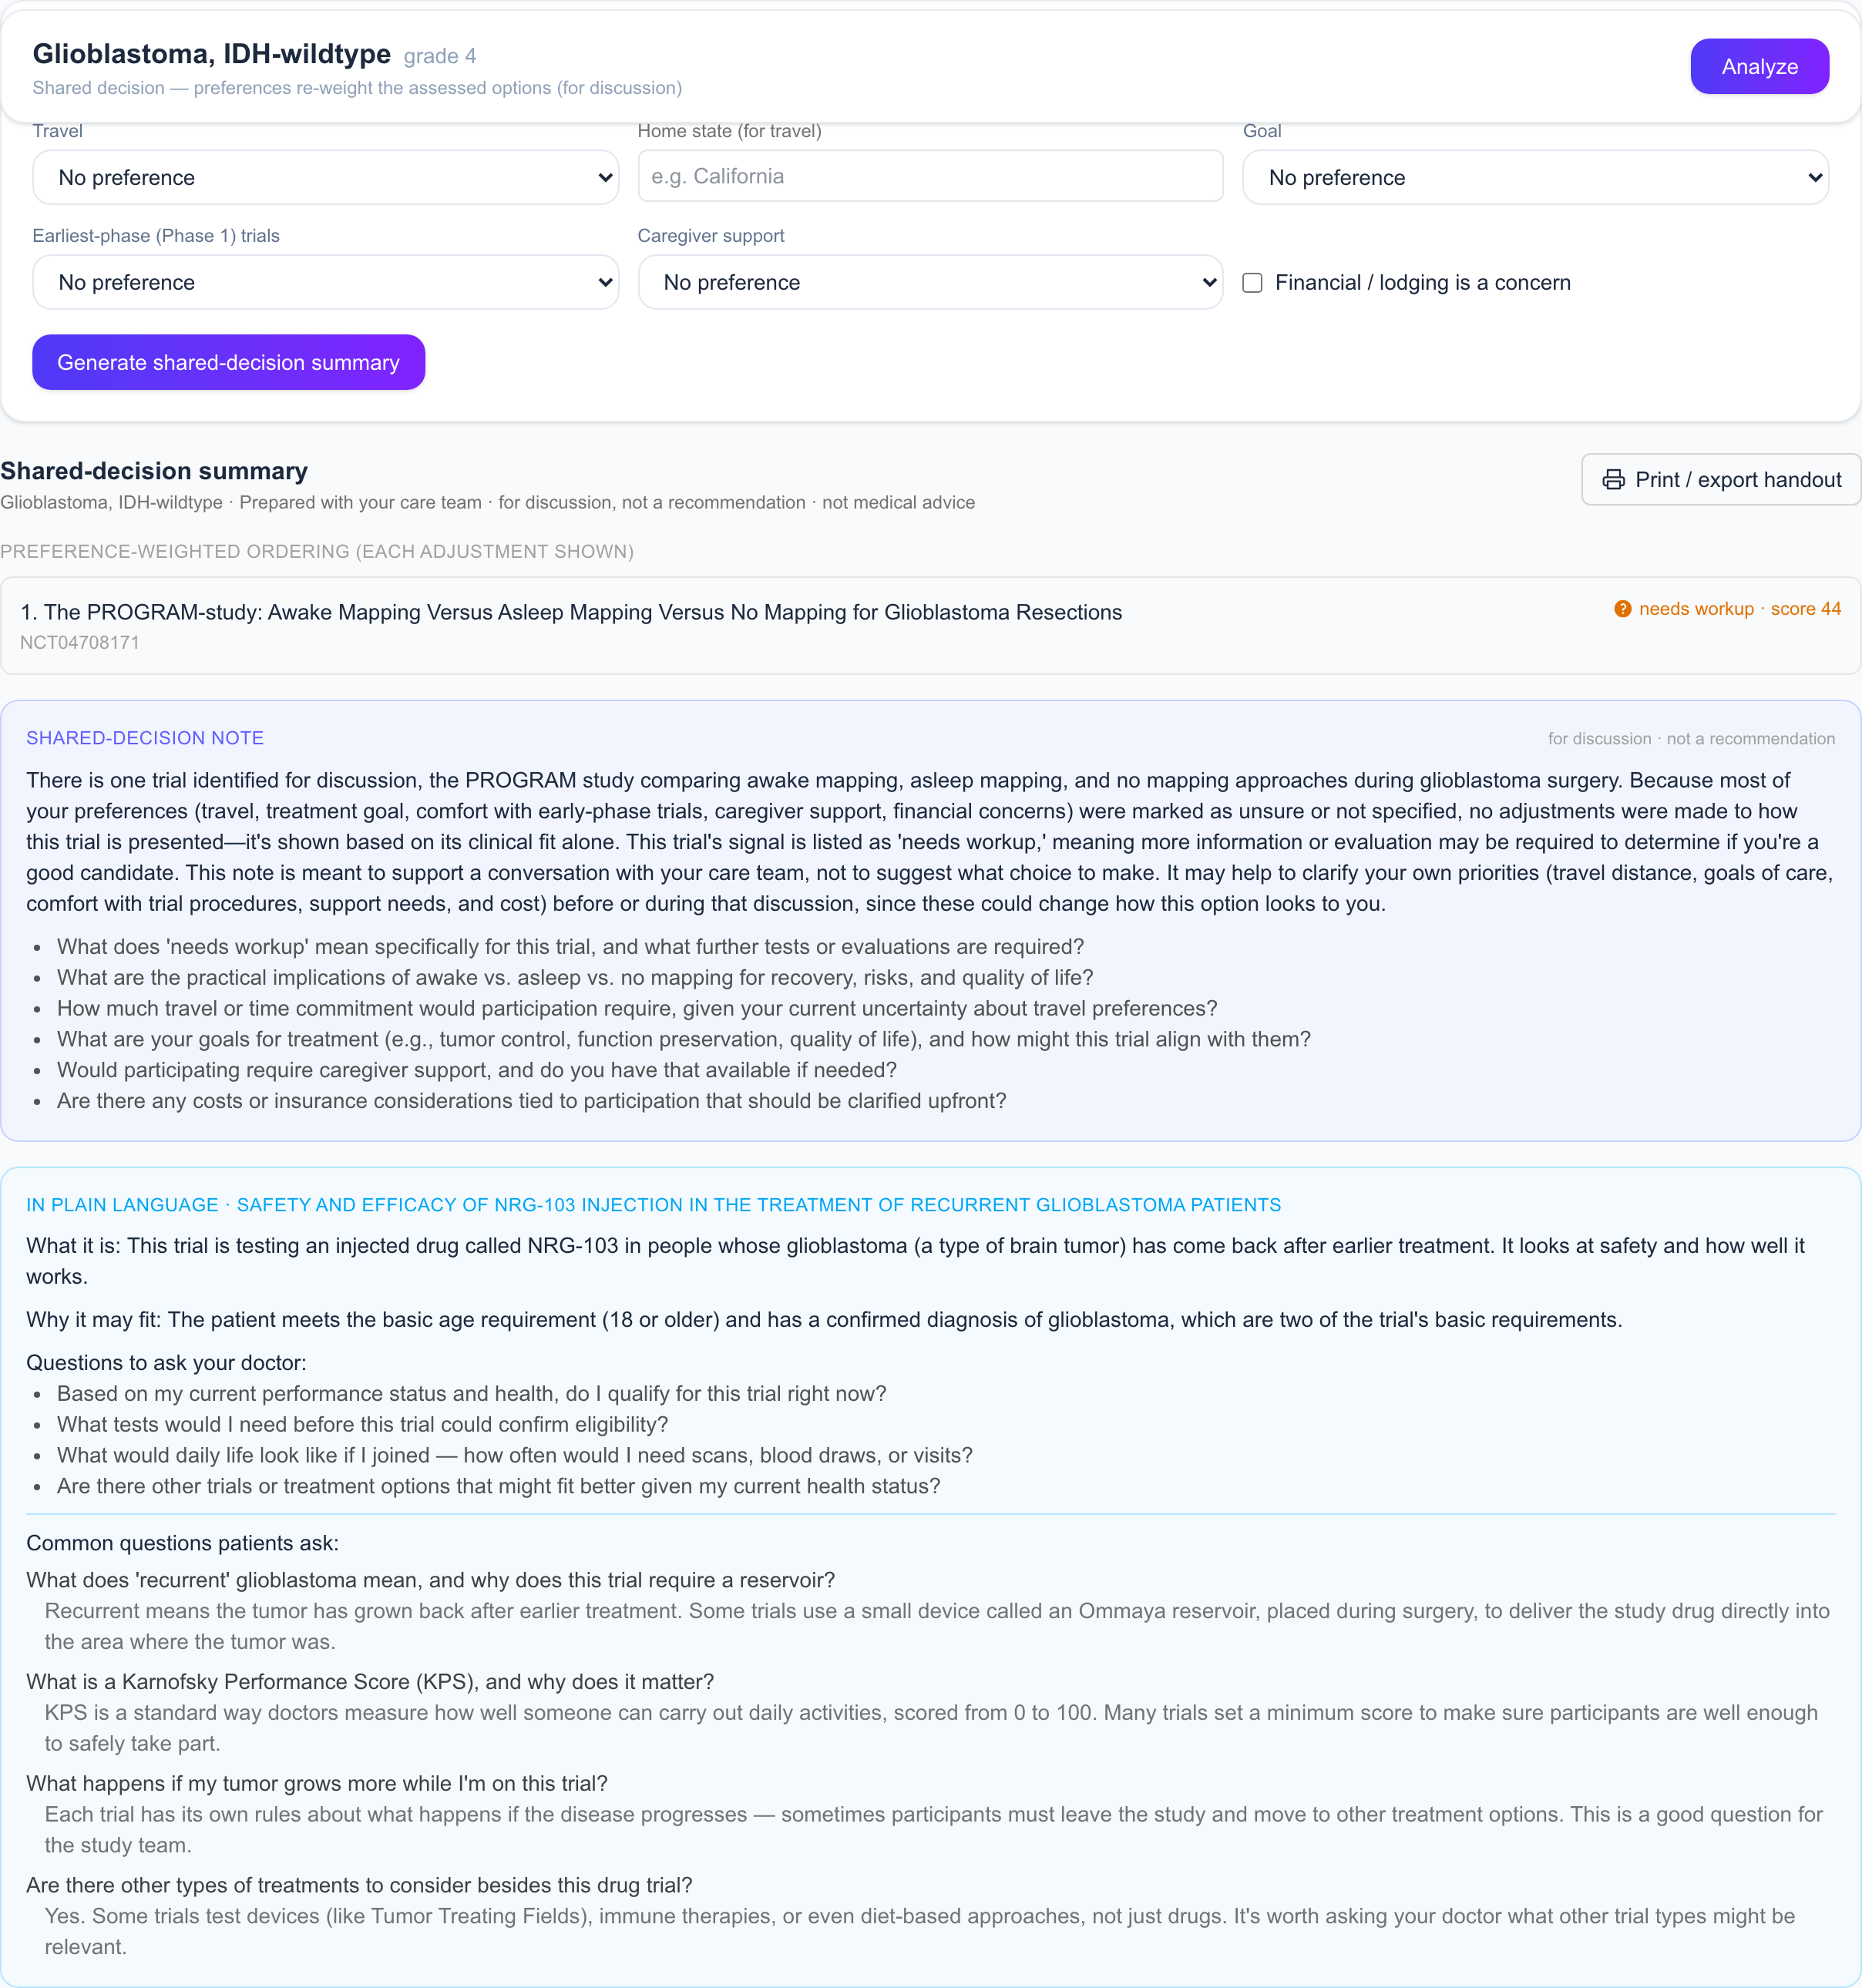
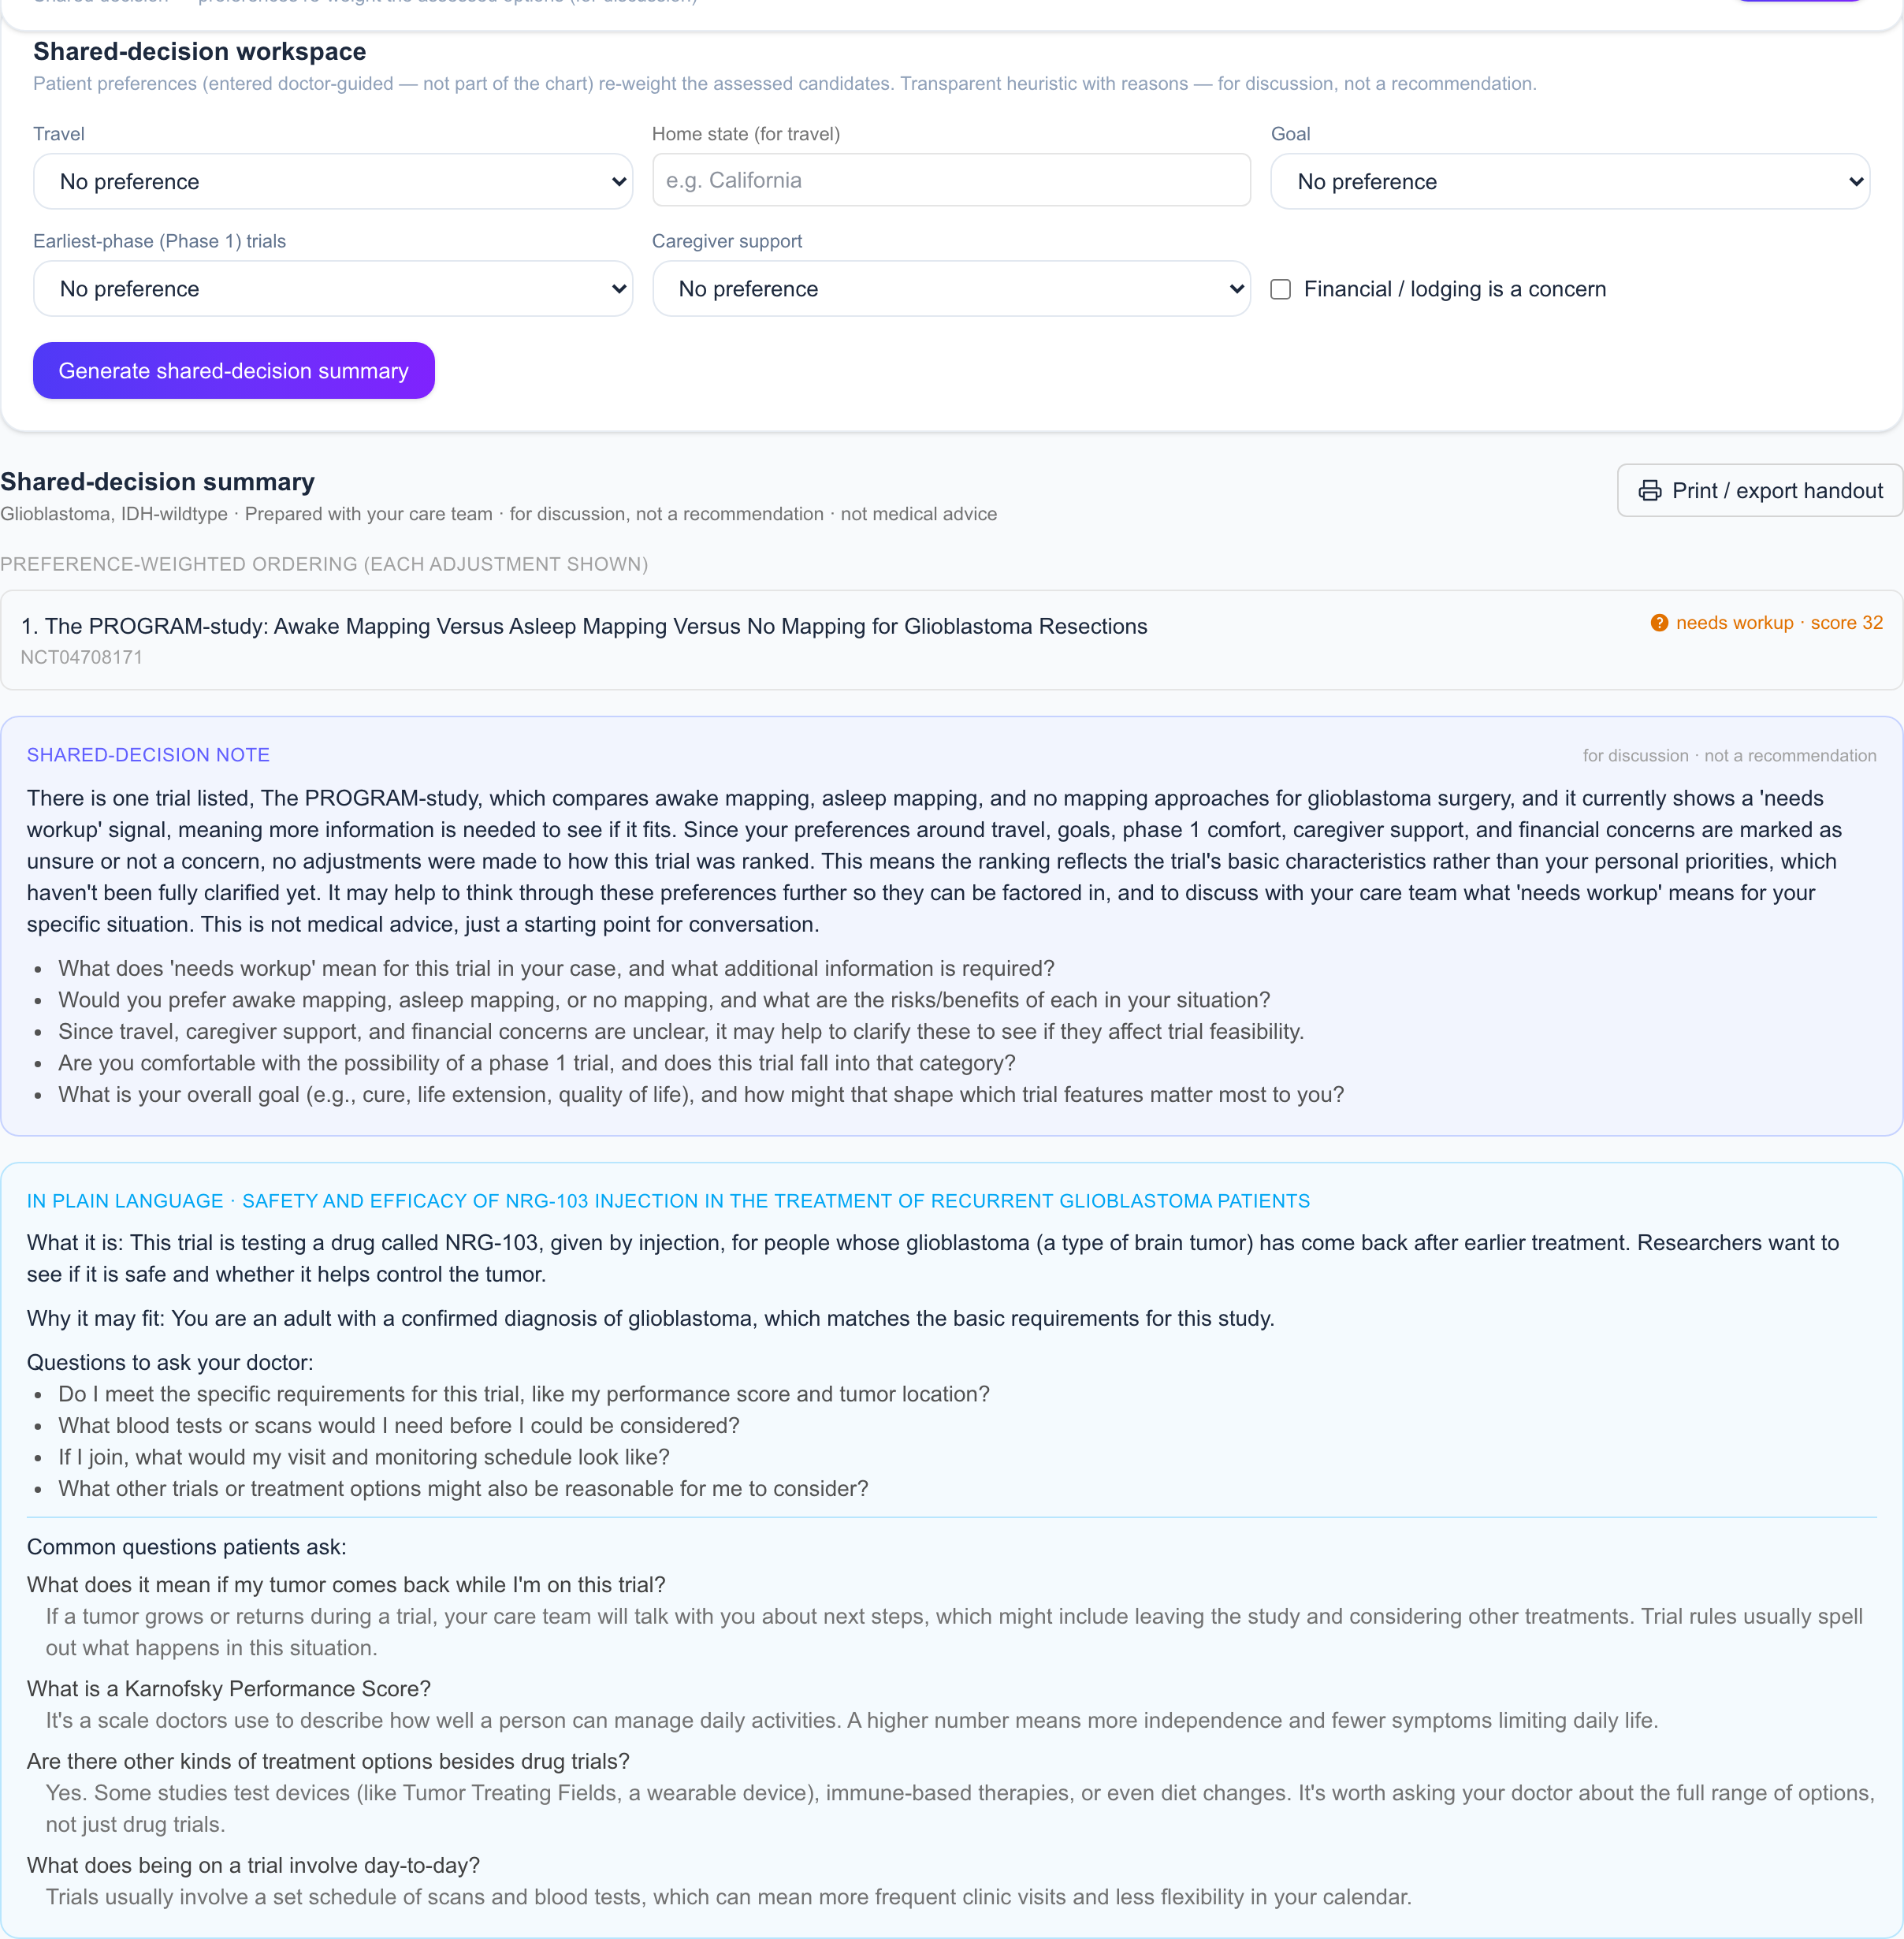
explain: address the patient directly (second person)
The plain-language explanation read in the third person ("the patient's
age", "is the patient able to consent") — it's a note handed to the
patient, so it should speak to them. Add a VOICE rule to _EXPLAIN_SYSTEM:
second person ("you", "your tumor") for the descriptive parts and open
questions; keep questions_to_ask in the patient's own first person.
Refresh the shared-decision handout screenshot to match.

diff --git a/backend/app/main.py b/backend/app/main.py
@@ -963,6 +963,11 @@ _EXPLAIN_SYSTEM = (
     "You are the PLAIN-LANGUAGE agent, rendering a trial's clinician-facing fit "
     "assessment for the PATIENT and family, doctor-guided. Write at a ~7th-grade "
     "reading level, warm and clear, no jargon (briefly define any unavoidable term). "
+    "VOICE: speak DIRECTLY TO the patient in the second person — 'you', 'your tumor', "
+    "'your age' — as if handing them this note. NEVER refer to them in the third person "
+    "('the patient', 'them', 'this patient'). Use 'your care team' / 'your doctor', not "
+    "'the care team'. (Exception: 'questions_to_ask' are the patient's OWN questions, so "
+    "phrase those in the first person — 'I', 'my', 'me'.)\n"
     "Ground the patient-SPECIFIC parts (what_it_is, why_it_may_fit, open_questions, "
     "what_it_involves) ONLY in the FIT ASSESSMENT provided — do NOT invent facts about "
     "this patient.\n\n"

diff --git a/docs/demo-script-3min.md b/docs/demo-script-3min.md
@@ -3,7 +3,8 @@
 Hero case: **case-004** (TCGA-06-5413 · 67yo M · recurrent glioblastoma, IDH-wt · prior bevacizumab).
 Thesis: **honesty** — not "the AI found a match." Claude is never the source of truth.
 
-> 动作用中文，要讲的话用英文。目标 ~3:00（偏紧，超时先删【朋友经历】的细节或收尾）。
+> 动作用中文，要讲的话用英文。**完整版约 3:30**（加了 3-agent 逐个讲）。要压回 3:00，任选 ~30s 删掉：
+>   ① 哥哥那句「his wife…」可选行；② 独立审计段并回 3-agent 段一句带过；③ 开场【朋友经历】只留一句。
 > 录前先预热 Render `/health`，页面停在 Patient panel。
 > ⚠️ 两处要你自己确认：① 【朋友经历】占位符填成你的真实故事；② 是否公开哥哥的私人信息（需他同意）。
 
@@ -43,17 +44,22 @@ Thesis: **honesty** — not "the AI found a match." Claude is never the source o
 
 > "Now the core: a **per-criterion fit table** — what's met, and honestly, what's unknown. It never fakes a green 'eligible' — every unknown becomes a **workup checklist** of tests to order. This hand-check is exactly the manual step we're replacing."
 
-### 2:05–2:35 · 诚实层：验证 + 独立审计
-**【动作】** 点「Run independent audit」→ 右侧抽屉滑出；等出现「XX% clinically concordant」。指向顶部那句和红色「genuine challenges」/ 绿色 self-corrections。
+### 2:05–2:35 · 诚实层：3-agent 流水线（逐个指）
+**【动作】** 点「Run 3-agent verification」→ 右侧抽屉滑出，边流式出现边**依次指向**：`1 · Drafting agent` → `2 · Verification agent (Opus)` → `3 · Investigation agent`。
 
-> "Then the honesty layer. A three-agent loop drafts the assessment and an **Opus verifier rewrites any over-claim** back to the evidence. And separately — on the right — an **independent Opus auditor re-derives eligibility completely blind, then challenges our own table.** It even flags where our screen was too cautious. It's a check with teeth, not a rubber stamp."
+> "Then the honesty layer — **three agents, in order.** First, a **drafting** agent writes the eligibility brief. Second — the one I trust most — an **Opus verification** agent checks every claim against the fit table and **rewrites any over-claim** back to the evidence: 'eligible' becomes 'possibly relevant, pending a test.' Third, an **investigation** agent turns each remaining unknown into a concrete next step — the test to order, the record to pull."
 
-### 2:35–2:55 · 患者侧：解释 + FAQ + handout（最高价值）
+### 2:35–2:55 · 独立审计（第四个、独立的）
+**【动作】** 点「Run independent audit」→ 抽屉里出现审计面板；指向「XX% clinically concordant」和红色「genuine challenges」/ 绿色 self-corrections。
+
+> "And then, **separately**, an **independent** Opus auditor re-derives eligibility completely **blind** — it never sees our answers — and challenges the whole table. It even flags where our own screen was too cautious. That's a check with teeth, not a rubber stamp."
+
+### 2:55–3:20 · 患者侧：解释 + FAQ + handout（最高价值）
 **【动作】** 关抽屉；点「Explain for patient」→ 弹窗出现，滚一下平白解释 + 常见问题，关弹窗；点「Shared decision」→ 「Generate shared-decision summary」；指向「Print / export handout」。
 
 > "And the part my brother cared about most: the **conversation**. The doctor previews a plain-language explanation and a curated FAQ — no jargon, and a hard rule: **never a survival estimate.** Then a one-page **shared-decision handout** the patient takes home, where their own preferences re-rank the options."
 
-### 2:55–3:10 · 收尾
+### 3:20–3:35 · 收尾
 **【动作】** 停在 handout / 回镜头。
 
 > "Real data, verified per criterion, independently audited, explained honestly. **Nine Claude agents, each grounded in an external source of truth.** It doesn't recommend — it shows the doctor *why* a trial fits, or doesn't. Thank you."